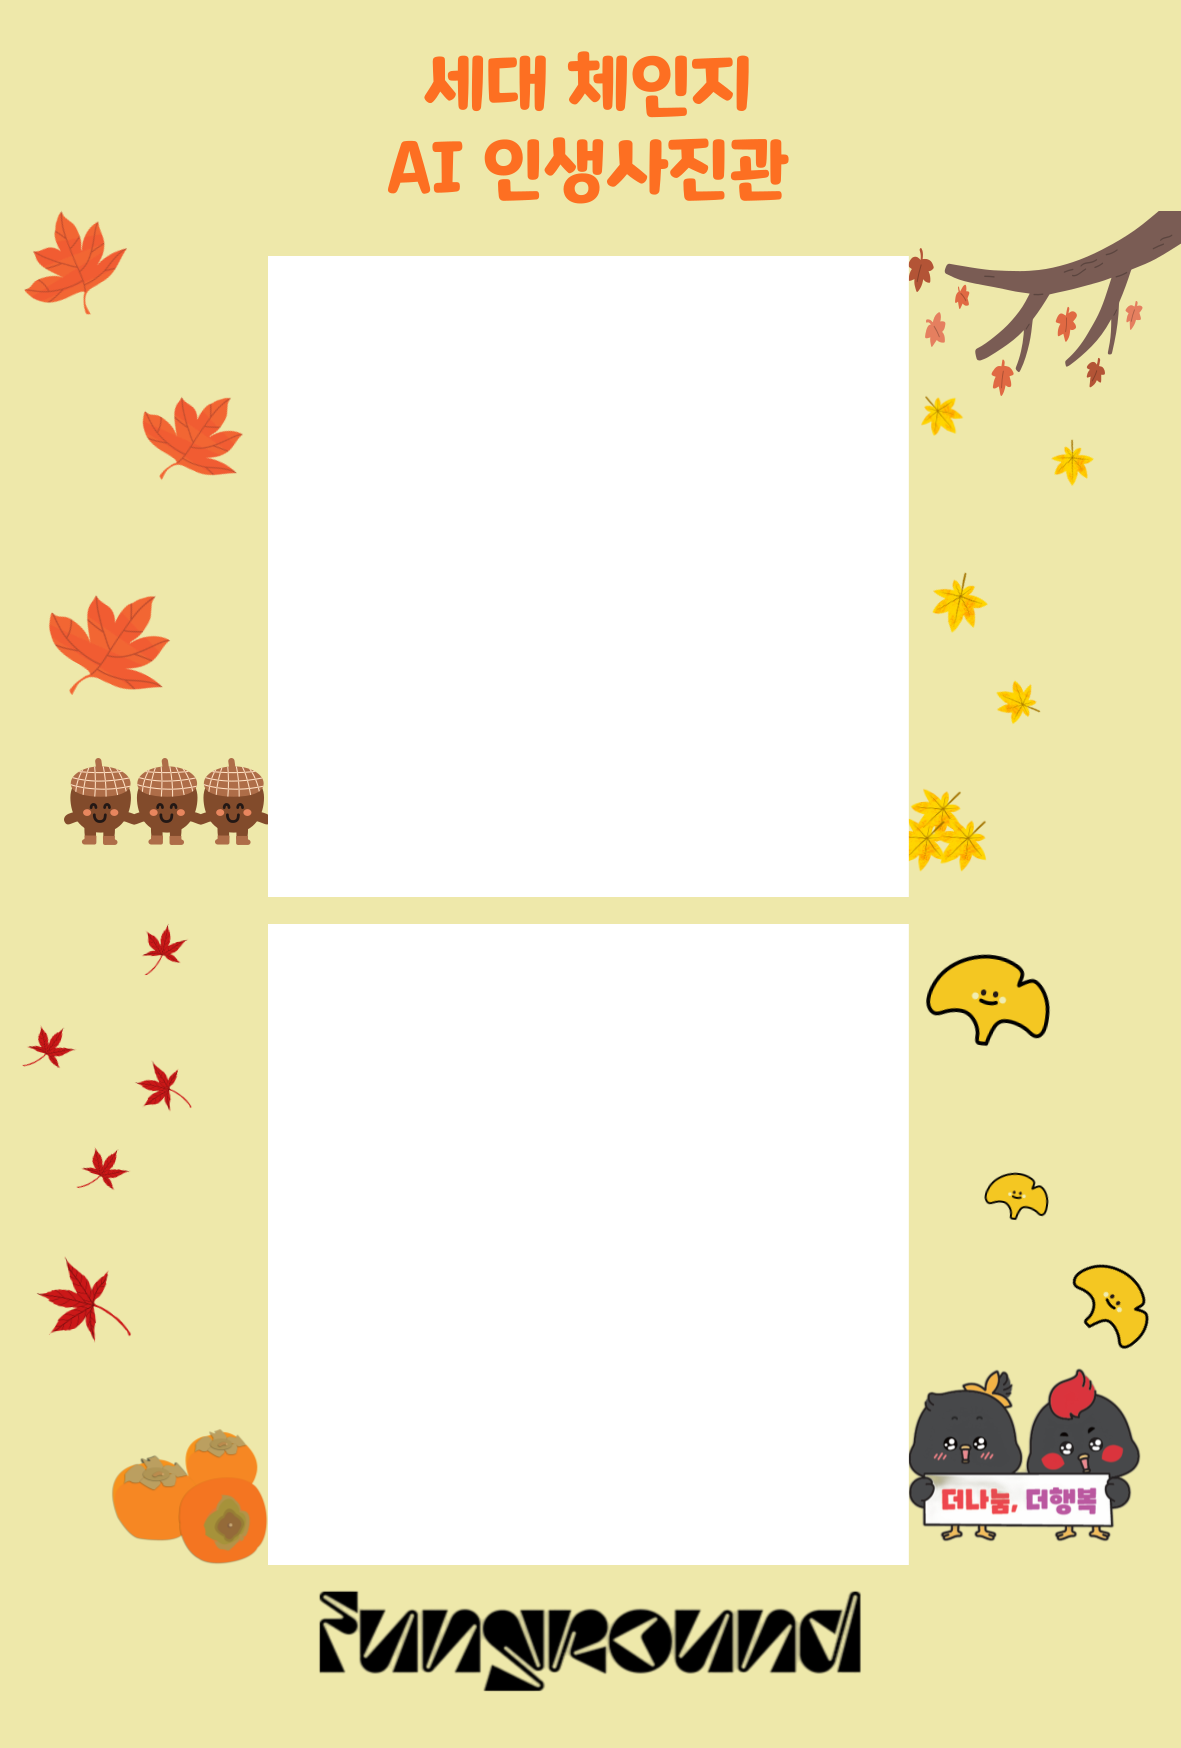
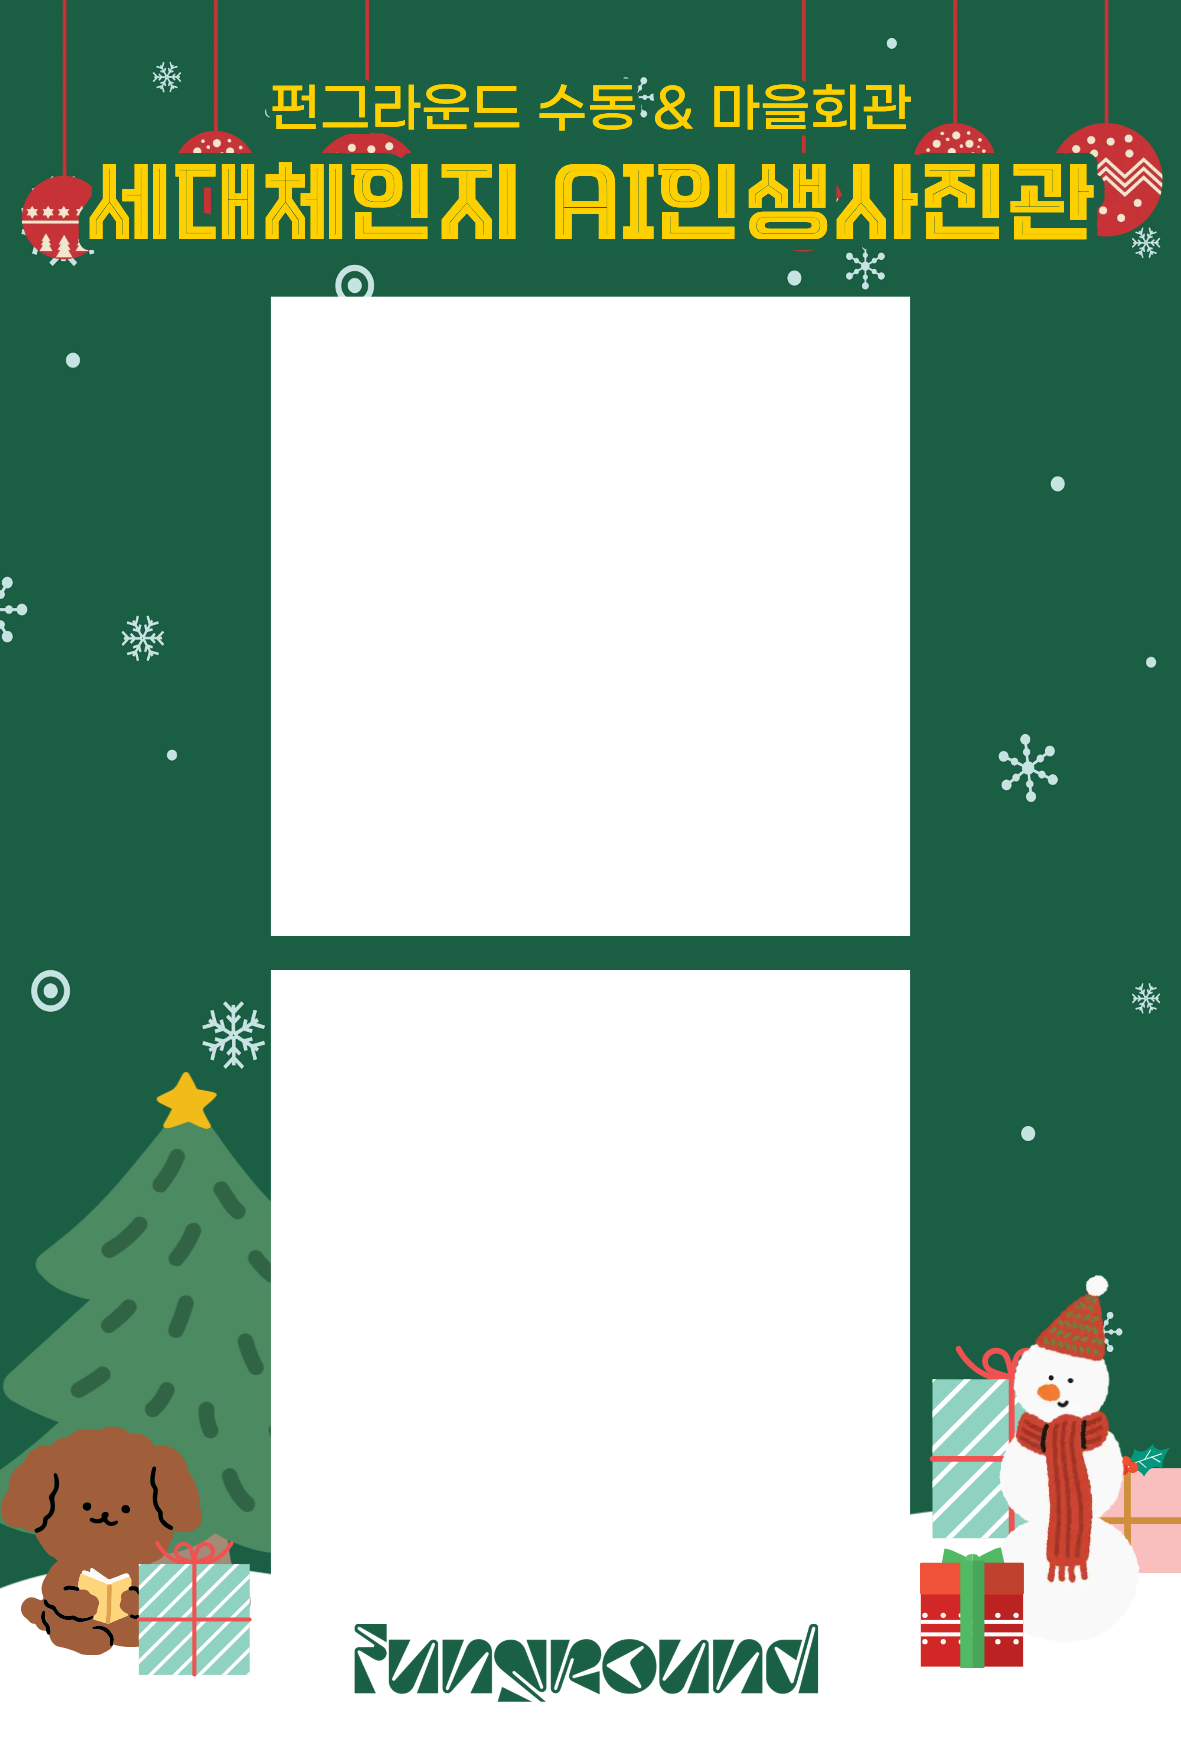
크리스마스 톤으로 변경

diff --git a/main.py b/main.py
@@ -874,28 +874,28 @@ class MainWindow(QtWidgets.QMainWindow):
 
         target.setStyleSheet(
             """
-        /* ✅ 선택된 상태 — 배경이 강조됨 */
-        QLabel#past_label[selected="true"],
-        QLabel#future_label[selected="true"],
-        *#past_label[selected="true"],
-        *#future_label[selected="true"] {
-            background-color: #C97B4E;     /* 브론즈 오렌지 */
-            color: #FFF;
-            border: 10px solid #C97B4E;
-            border-radius: 12px;
-        }
+                /* ✅ 선택된 상태 — 파스텔 레드 강조 */
+                QLabel#past_label[selected="true"],
+                QLabel#future_label[selected="true"],
+                *#past_label[selected="true"],
+                *#future_label[selected="true"] {
+                    background-color: #E58A8A;     /* 파스텔 레드 */
+                    color: #FFFFFF;
+                    border: 10px solid #E58A8A;
+                    border-radius: 12px;
+                }
 
-        /* ✅ 마우스 오버(hover) 시 — 테두리만 표시 */
-        QLabel#past_label:hover,
-        QLabel#future_label:hover,
-        *#past_label:hover,
-        *#future_label:hover {
-            background-color: transparent;
-            color: #C97B4E;
-            border: 10px solid #C97B4E;     /* hover 시 부드러운 브론즈 테두리 */
-            border-radius: 12px;
-        }
-        """
+                /* ✅ 마우스 오버(hover) 시 — 더 밝은 파스텔 레드 테두리 */
+                QLabel#past_label:hover,
+                QLabel#future_label:hover,
+                *#past_label:hover,
+                *#future_label:hover {
+                    background-color: transparent;
+                    color: #E58A8A;                /* 파스텔 레드 */
+                    border: 10px solid #EEA4A4;    /* 밝은 파스텔 레드 테두리 */
+                    border-radius: 12px;
+                }
+                """
         )
 
         btn_next = getattr(target, "btn_next", None)
@@ -954,12 +954,15 @@ class MainWindow(QtWidgets.QMainWindow):
         self.slot_source = [None, None]  # 다시 살리기
         self.candidates = []
 
-        self._empty_style = (
-            "border: 3px dashed #bbb; background:#111; color:#999; font-size:20px;"
-        )
-        self._filled_style = "border: 3px solid #4CAF50; background:#000;"
-        self._thumb_style = "border: 2px solid transparent; background:#000;"
-        self._thumb_disabled = "border: 2px solid #999; background:#333; opacity:0.6;"
+        self._empty_style = "border: 3px dashed #D0C7B5; background:#F0EEE8; color:#7A6F67; font-size:20px;"  # 눈톤 + 따뜻한 그레이
+
+        self._filled_style = "border: 3px solid #2E6B3F; background:#F9F9F5;"
+        # 포레스트 그린 + 밝은 눈색 배경
+
+        self._thumb_style = "border: 2px solid transparent; background:#FAFAF7;"
+        # 밝은 화이트 베이지
+
+        self._thumb_disabled = "border: 2px solid #AAA; background:#E1DFDB; opacity:0.6;"  # 흐린 겨울 그레이톤
 
         for i, lbl in enumerate(self.thumb_labels):
             if lbl:
@@ -1207,16 +1210,16 @@ class MainWindow(QtWidgets.QMainWindow):
                 background-color: transparent;
             }
             QFrame:hover {
-                border: 2px solid #FA8072;
-                background-color: rgba(250, 128, 114, 0.1); /* 살짝 밝은 살구빛 */
+                border: 2px solid #C94C46; /* 크리스마스 브릭 레드 */
+                background-color: rgba(201, 76, 70, 0.15); /* 크리스마스 레드 투명 */
             }
             """
 
         self._frame_thumb_selected = """
         QFrame {
-            border: 2px solid #FA8072;
+            border: 2px solid #C94C46;   /* 포인트 레드 */
             border-radius: 12px;
-            background-color: #FA8072;
+            background-color: #C94C46;   /* 깊은 크리스마스 레드 */
         }
         """
 
